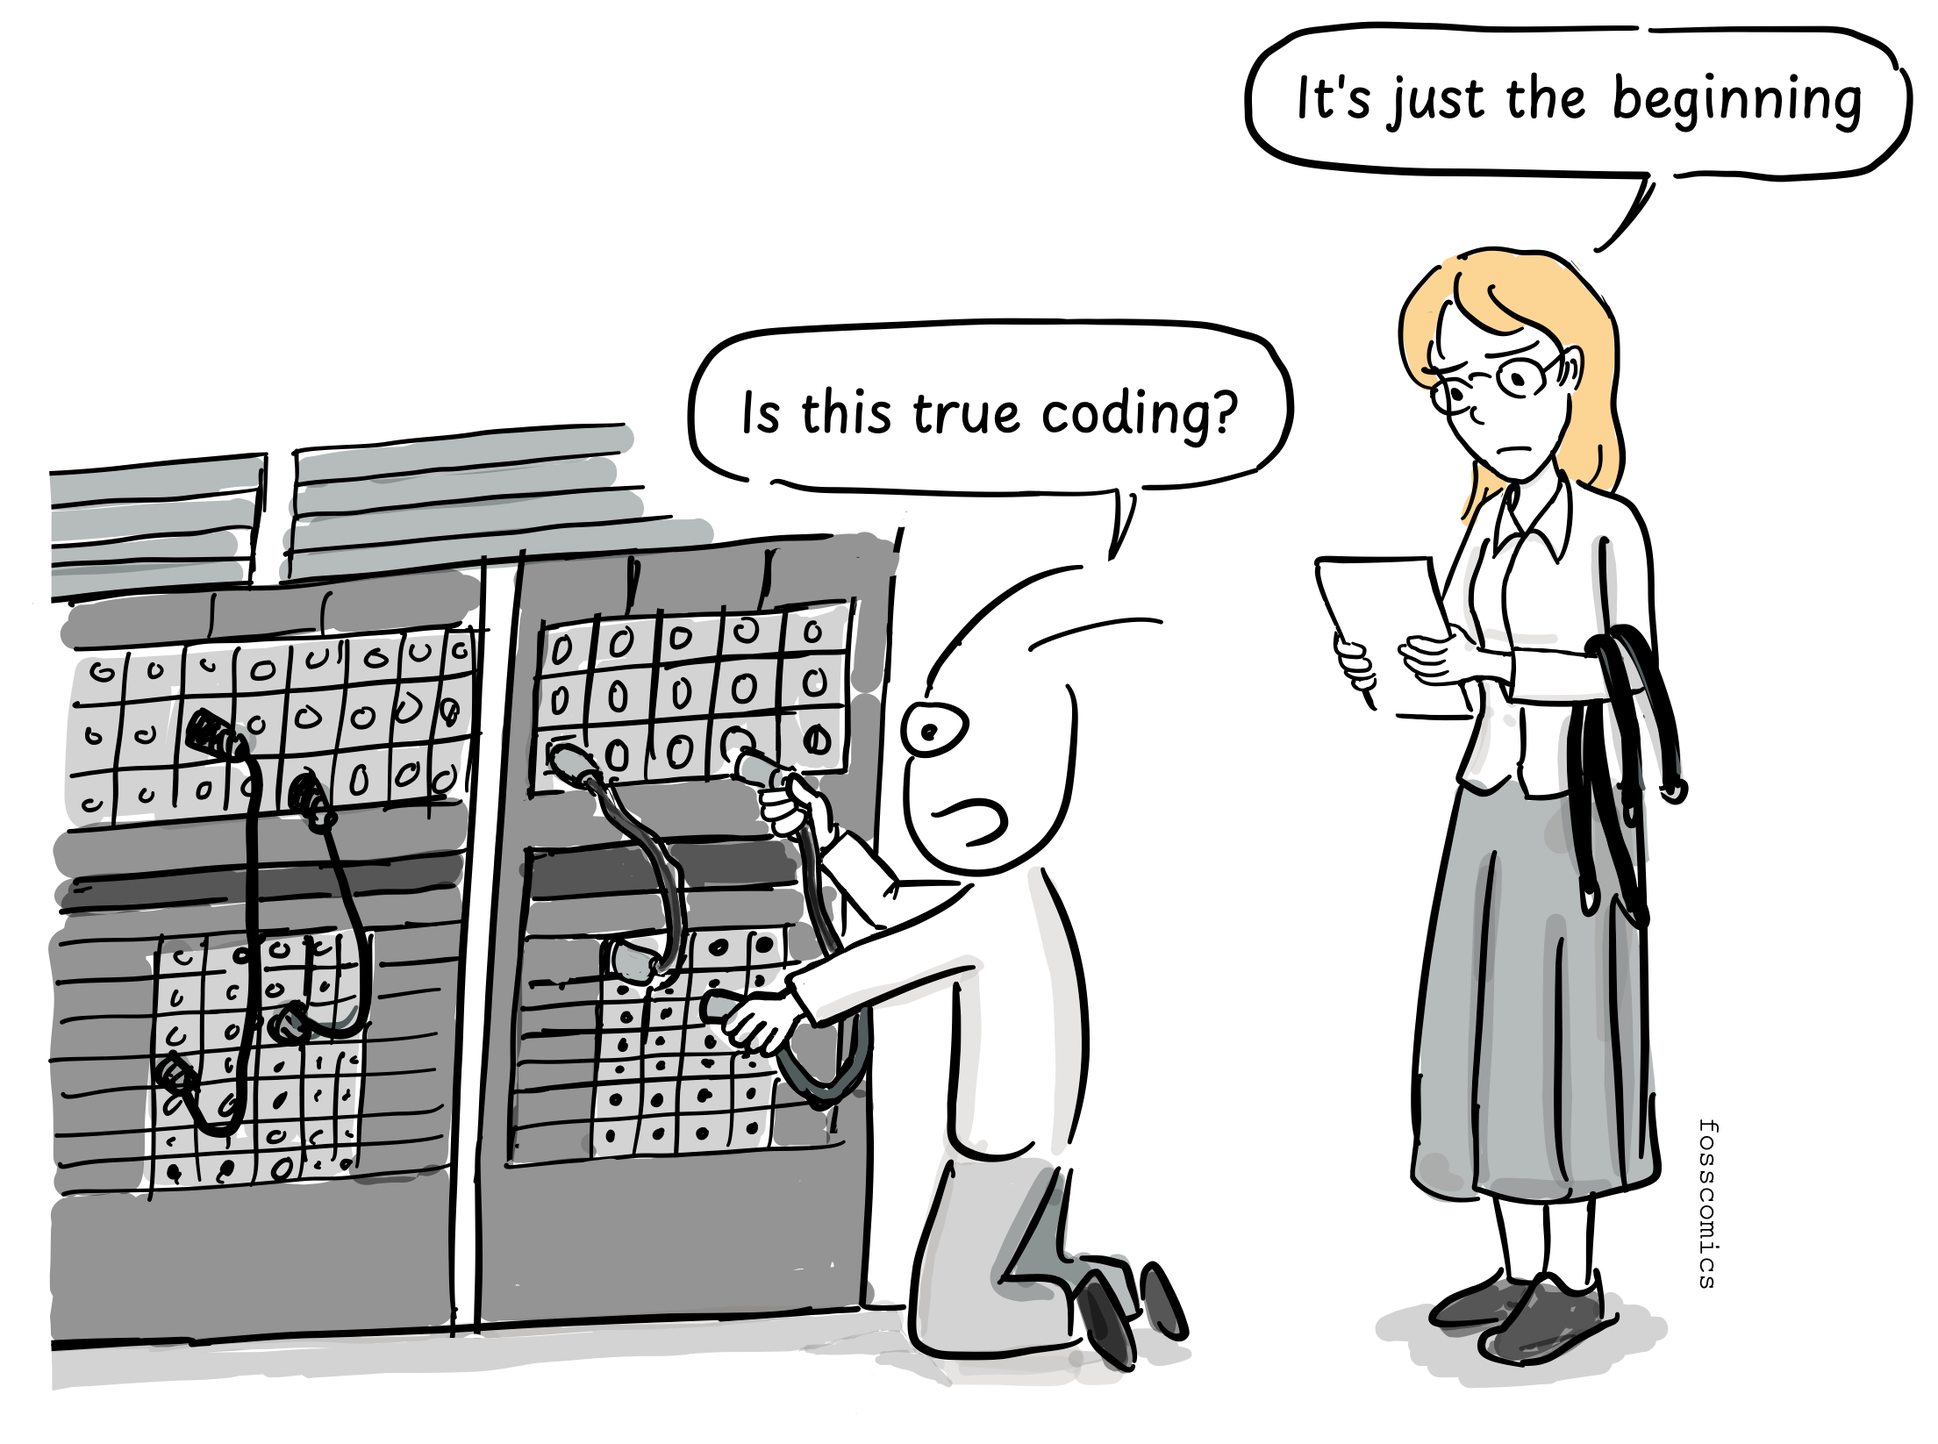
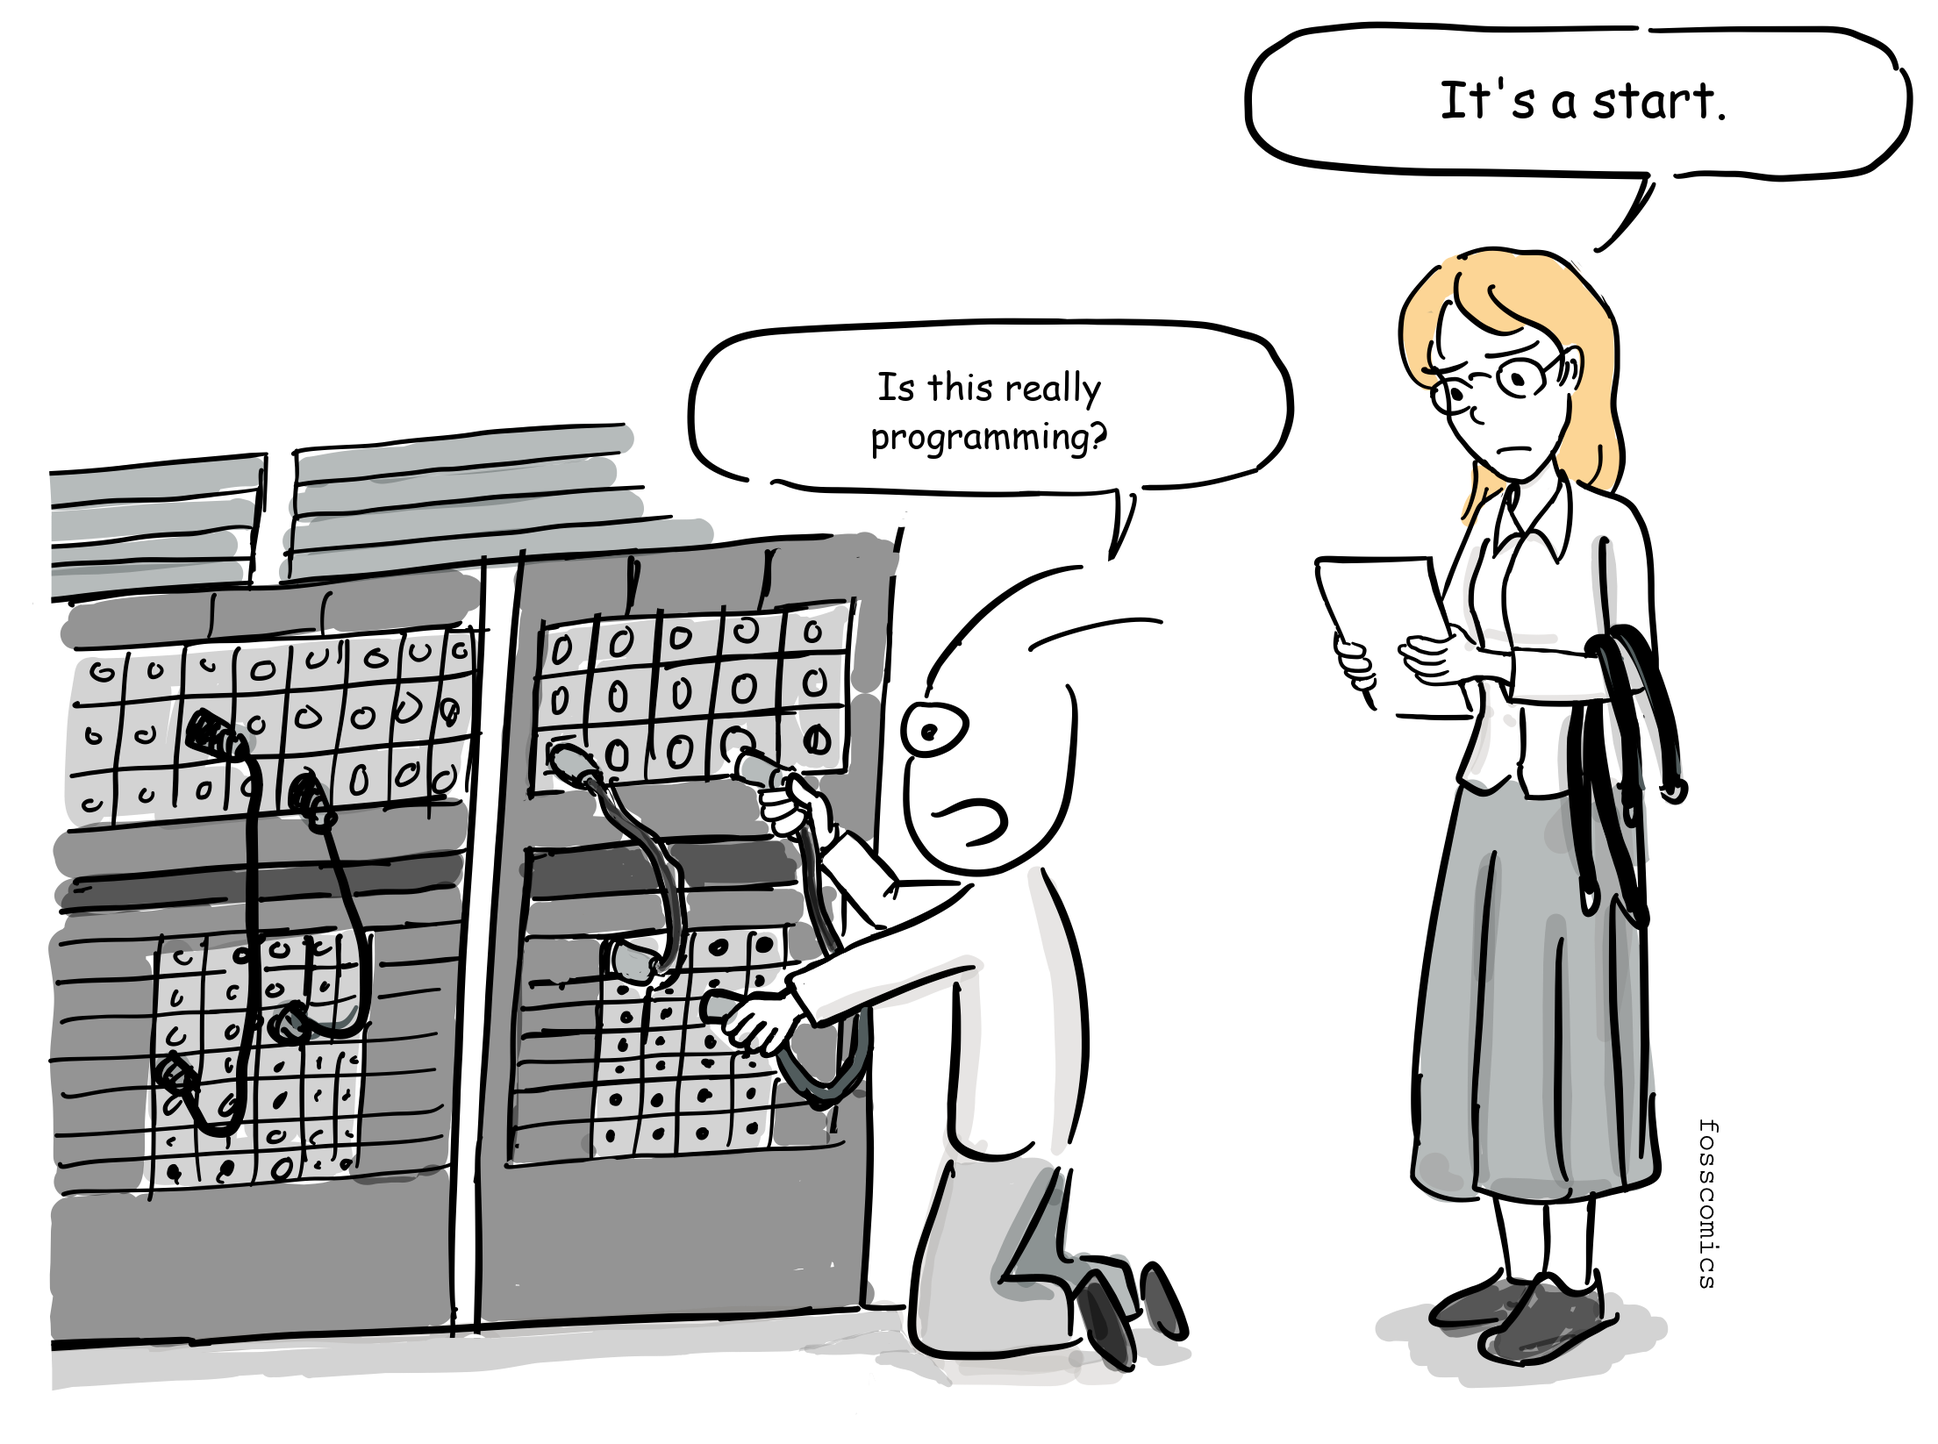
Revise Episode 2 translation and artwork

Changed region(s): [[0.3748, 0.2479, 0.6247, 0.3098], [0.656, 0.062, 0.9683, 0.093]]

diff --git a/content/posts/2. Alan Turing and Von Neumann/index.md b/content/posts/2. Alan Turing and Von Neumann/index.md
@@ -2,80 +2,83 @@
 title: 2. Alan Turing and Von Neumann
 date: "2019-05-29"
 image: feature.png
-description: After World War II, countries sought to develop computers. Alan Turing first proposed a theoretical computer model, influencing the design of modern computing. He aimed to prove Gödel's incompleteness theorems by designing a theoretical machine, leading to the Turing machine concept. Concurrently, the U.S. developed ENIAC, a general-purpose computer, evolving into the EDVAC with Von Neumann's input, establishing the foundation for modern computer architecture...
-tags: Alan Turing, Von Neumann, Kurt Göde, EDVAC, EDSAC, Automatic Computing Engine
+description: Alan Turing described an abstract machine that clarified what computation could mean. From wartime codebreaking and ENIAC's plugboards to the stored-program designs of EDVAC, ACE, and EDSAC, this episode traces how Turing, John von Neumann, and several engineering teams contributed to the architecture of modern computers.
+tags: Alan Turing, Von Neumann, Kurt Gödel, EDVAC, EDSAC, Automatic Computing Engine
 ---
 
-Who initially made the type of computer we use today? After the Second World War,  many countries tried to develop a computer, but Alan Turing, an English mathematician, was the first to propose a theoretical model of the computer.
+During and after World War II, teams in several countries worked to develop electronic computers. Years earlier, British mathematician Alan Turing had described a universal mathematical model in which one machine could carry out any computable procedure by reading an encoded description from its tape. This was an important theoretical precursor to the stored-program computer, although the architecture of practical stored-program machines was later developed through the work of several teams.
 
 ![alt_text](images/2_1.png "size:80%")
 > "I will find a way to prove Gödel's incompleteness theorems."
 
-At the time, a famous mathematician, [David Hilbert](https://en.wikipedia.org/wiki/David_Hilbert), introduced [a problem](https://en.wikipedia.org/wiki/Hilbert%27s_second_problem), which is about whether we could find an algorithm (machine) that could solve all the mathematical problems. [Gödel's incompleteness theorems](https://en.wikipedia.org/wiki/G%C3%B6del%27s_incompleteness_theorems), proposed by the Austro-Hungarian mathematician, logician and philosopher Kurt Gödel, are widely interpreted as showing that Hilbert's program to find a complete and consistent set of axioms for all mathematics is impossible [5]. Turing wanted to prove if Gödel's incompleteness theorems were right using his own way by designing a machine. Finally, in 1937, he published a paper, ["On Computable Numbers, with an Application](https://www.cs.virginia.edu/~robins/Turing_Paper_1936.pdf) that mentioned the [Turing machine](https://en.wikipedia.org/wiki/Turing_machine). It was an abstract machine that processed the symbols written on a strip of tape as the rules of the symbols defined in the table, which defines the mathematical model of the computer[&#91;1&#93;][1]. The symbols written in the tape could be thought of as software.
+In 1928, [David Hilbert](https://en.wikipedia.org/wiki/David_Hilbert) and Wilhelm Ackermann posed the Entscheidungsproblem: could an algorithm determine whether any statement in first-order logic is valid? [Gödel's incompleteness theorems](https://en.wikipedia.org/wiki/G%C3%B6del%27s_incompleteness_theorems), published in 1931, had already revealed limits in formal systems capable of expressing arithmetic. Turing approached the separate decision problem by defining a precise mathematical model of computation.
+
+Turing submitted ["On Computable Numbers, with an Application to the Entscheidungsproblem"](https://www.cs.virginia.edu/~robins/Turing_Paper_1936.pdf) in 1936, and it was published in 1937. In it, he described an abstract machine that reads and writes symbols on a long tape according to a finite table of rules. This [Turing machine](https://en.wikipedia.org/wiki/Turing_machine) provided a mathematical model of computation and showed that no universal procedure could solve the Entscheidungsproblem[&#91;1&#93;][1]. The symbols on its tape could encode both the data being processed and the instructions for processing it, anticipating the relationship between data and software in modern computers.
 
 ![alt_text](images/2_2.png "size:80%")
-> "Wow, rewriting this document by hand is like copying the program."
+> "Copying these symbols by hand is like copying the program."
 
-Alan Turing contributed to the Allied victory by creating a device called Bombe designed for breaking German ciphers during the Second World War[&lbrack;2&rbrack;][2]. At the time, computers were made for specific purposes. By the end of the war, the United States began making a general purpose computer, called [ENIAC(ENIAC).](https://ko.wikipedia.org/wiki/%EC%97%90%EB%8B%88%EC%95%85) John Mauchly and his team began to develop ENIAC in 1943 and completed it in 1946 at the University of Pennsylvania. After that, the US military used ENIAC to calculate ballistics tables for missiles.
+During World War II, Turing helped design an improved British Bombe that was used to decipher messages encrypted by the German Enigma machine, making an important contribution to Allied cryptanalysis[&lbrack;2&rbrack;][2]. Many computing machines built during the war were designed for specific tasks. As the war was nearing its end, however, the United States was developing [ENIAC](https://en.wikipedia.org/wiki/ENIAC), a general-purpose electronic computer. J. Presper Eckert, John Mauchly, and their team at the University of Pennsylvania began building it in 1943 and completed it in 1946. The U.S. Army initially used ENIAC to calculate artillery firing tables.
 
-In 1940s, the programming was totally different from today’s programming. We needed to connect each switch to set an instruction and also had to replace the circuit board in order to run another program. In addition, it was too heavy (30 tons) and consumed too much energy: 200 KW of electricity because it used 18,000 vacuum tubes[&lbrack;3&rbrack;][3].
+Programming ENIAC was very different from programming a modern computer. Instead of loading a program from memory, operators configured switches and connected cables on its plugboards. Running a different program required them to reconfigure the machine. ENIAC weighed about 30 tons, contained roughly 18,000 vacuum tubes, and consumed around 150 kilowatts of power[&lbrack;3&rbrack;][3].
 
 ![alt_text](images/2_3.png)
-> "Is this true coding?" \
-> "It's just the beginning"
+> "Is this really programming?" \
+> "It's a start."
 
-Later, the team who made ENIAC began to develop EDVAC, the world's first stored-program computer, which was delivered to the US Ballistic Research Laboratory in 1949. Von Neumann was involved in the development of EDVAC as a consultant and wrote the [first draft of a report on EDVAC](http://www.virtualtravelog.net/wp/wp-content/media/2003-08-TheFirstDraft.pdf). He proposed a [computer architecture](https://en.wikipedia.org/wiki/Computer_architecture) that was designed to save a program and its data in the same memory.
+The ENIAC team next began designing EDVAC for the U.S. Army's Ballistic Research Laboratory, making it one of the earliest stored-program computer projects. John von Neumann joined the project as a consultant, and the widely circulated [First Draft of a Report on the EDVAC](http://www.virtualtravelog.net/wp/wp-content/media/2003-08-TheFirstDraft.pdf) appeared under his name. The design stored instructions and data in the same memory. EDVAC was delivered in 1949 but became fully operational later; meanwhile, the Manchester Baby had run a stored program in 1948.
 
 ![alt_text](images/2_4.png "size:90%")
-> "EDVAC adopted the binary symbol for the first time."
+> "Unlike ENIAC, EDVAC was designed to use binary arithmetic."
 
-Now, all computers are using the computer architecture he proposed. We call it [Von Neumann](https://ko.wikipedia.org/wiki/%ED%8F%B0_%EB%85%B8%EC%9D%B4%EB%A7%8C_%EA%B5%AC%EC%A1%B0) architecture.
+Most general-purpose computers still use variants of what became known as the [von Neumann architecture](https://en.wikipedia.org/wiki/Von_Neumann_architecture).
 
 
 ![Von Neumann Architecture](images/image5.png "Von Neumann Architecture")
 (From [wikipedia](https://en.wikipedia.org/wiki/Von_Neumann_architecture#/media/File:Von_Neumann_Architecture.svg))
 
-As you can see in the picture above, Von Neumann architecture consists of a CPU (Central Processing Unit), a memory unit, and input and output devices. The processing unit contains an arithmetic logic unit and processor registers. The control unit contains an instruction register and program counter. The memory unit may store data and instructions together. In general, the control unit executes an instruction by fetching it from memory, using its ALU(Arithmetic Logic Unit) to perform an operation, and then storing the result in its memory[&lbrack;6&rbrack;][6].
+As the diagram shows, a basic von Neumann architecture consists of a central processing unit (CPU), memory, and input/output devices. The CPU contains an arithmetic logic unit (ALU), which performs arithmetic and logical operations; processor registers, which hold values needed immediately; and a control unit. The control unit includes registers such as the instruction register and program counter. Memory stores both instructions and data. During the fetch-decode-execute cycle, the CPU retrieves an instruction, interprets it, performs the operation, and stores any result[&lbrack;6&rbrack;][6].
 
-British government officials eventually found out about the EDVAC computer made in the United States and the report written by Von Neumann.
+Britain's National Physical Laboratory obtained von Neumann's EDVAC report in 1945.
 
 ![Von Neumann’s design report](images/2_5.png "size:90%")
-> "The US already made a [stored-program computer](https://en.wikipedia.org/wiki/Stored-program_computer)!"
+> "The Americans have already drawn up plans for a stored-program computer!"
 
-They asked Alan Turing to make a stored-program computer like EDVAC. Finally, he had the opportunity to develop a stored-program computer using his ideas from designing the Turing machine starting in 1945 at the National Physical Laboratory. The name was [ACE (Automatic Computing Engine)](https://en.wikipedia.org/wiki/Automatic_Computing_Engine).
+The laboratory then asked Turing to design a stored-program computer along the lines of EDVAC. Beginning in 1945, Turing worked on the [Automatic Computing Engine (ACE)](https://en.wikipedia.org/wiki/Automatic_Computing_Engine), giving him an opportunity to turn ideas from his theoretical work into a practical computer design.
 
 
 ![alt_text](images/2_6.png "size:80%")
-> "We need a computer like EDVAC" \
-> "I also have a good idea"
+> "We need a computer like EDVAC." \
+> "I have a design of my own."
 
-When we look at [his paper,](https://www.amazon.com/Turings-Report-1946-Other-Papers/dp/0262031140) published in 1946, although the report was written later than the EDVAC report by Von Neumann, it also included a detailed design for the stored-program computer. Moreover, the hardware is minimally designed to run arithmetic instructions in software, which is the same design philosophy and approach of the RISC CPU today. However, the development of ACE was delayed due to his wartime work and the secrecy required, and he returned to Cambridge for a sabbatical year in 1947 without having finished working on ACE[&lbrack;4&rbrack;][4].
+Although Turing's [ACE report](https://www.amazon.com/Turings-Report-1946-Other-Papers/dp/0262031140), presented in 1946, came after von Neumann's EDVAC report, it contained a detailed design for a stored-program computer. Turing kept the hardware to a minimum and proposed implementing even some arithmetic operations in software. In this respect, ACE anticipated ideas later associated with reduced instruction set computer (RISC) processors. Delays in funding and construction frustrated Turing, and in 1947 he returned to Cambridge on leave before the full ACE could be built[&lbrack;4&rbrack;][4].
 
 
 ![alt_text](images/2_7.png "size:80%")
-> "I already have a design. Why haven't they made a decision yet?"
+> "The design is ready. Why haven't they approved the funding?"
 
-Eventually, the mathematics institute at the University of Cambridge developed a computer called [Electronic Delay Storage Automatic Calculator (EDSAC)](https://ko.wikipedia.org/wiki/%EC%97%90%EB%93%9C%EC%82%AD) in 1949 with the proven design of the von Neumann computer.
+Elsewhere in Britain, Cambridge University's Mathematical Laboratory completed the [Electronic Delay Storage Automatic Calculator (EDSAC)](https://en.wikipedia.org/wiki/EDSAC) in 1949, drawing on the stored-program design described in the EDVAC report.
+Meanwhile, Turing's ACE design continued to influence work at NPL, which built a smaller version called the [Pilot ACE](https://en.wikipedia.org/wiki/Pilot_ACE). It ran its first program in 1950.
 
 ![alt_text](images/2_8.png "EDSAC size:80%")
 
-Alan Turing was ahead of the idea and design of the stored-program computer, but the actual implementation was led by the United States. In fact, since Alan Turing spent a few years working on his Ph.D. at the Institute for Advanced Study in Princeton University in 1937, while von Neumann was a professor of mathematics there, von Neumann might have gotten ideas from Alan Turing. However, von Neumann did not mention it in his report.
+Alan Turing's 1936 concept of a universal machine was an important theoretical precursor to the stored-program computer. In the United States, John von Neumann, J. Presper Eckert, John Mauchly, and others subsequently contributed to the development of the stored-program architecture through the EDVAC project, while British teams pursued their own implementations. Interestingly, Turing studied for his Ph.D. at Princeton University from 1936 to 1938, while von Neumann was a professor at the nearby Institute for Advanced Study. The two knew one another, and von Neumann, who was familiar with Turing's work on computability, later offered Turing a position. Some historians have therefore suggested that Turing's ideas may have influenced von Neumann's thinking. However, the extent of that influence is uncertain, and von Neumann's 1945 EDVAC report did not cite Turing's 1936 paper.
 
 ![alt_text](images/2_9.png "size:80%")
-> "Alan, can you explain your Turing machine a bit more?" \
-> "Yes, sir."
+> "Alan, could you tell me more about your universal machine?" \
+> "Of course."
 
-They might have talked to each other like this.
+They may have had a conversation like this, though no record of it survives.
 
-In fact, Britain made the first computer, Colossus, in order to break German ciphers during World War II, but the machines and related information were destroyed after the war as part of the effort to maintain the secrecy of the project. Germany also built their own computers during World War II, but their research could not continue due to their defeat.
+During World War II, Britain, Germany, and the United States all developed pioneering computing machines, but the war shaped what happened to them afterward. In Britain, Colossus was built in secret to help break German ciphers. Most Colossus machines were dismantled after the war, and the project remained secret for decades. Germany also produced pioneering computers, including Konrad Zuse's machines, but wartime destruction and Germany's defeat disrupted further development.
 
 ![alt_text](images/2_10.png)
-> "We can use the machine for other purposes" \
-> "No, we can’t. They would be destroyed because of confidentiality"
+> "Could we use these machines for other purposes?" \
+> "No. The project must remain secret."
 
-In the United States, immigrants such as Von Neumann contributed greatly to the development of early computers and continued to develop commercial computers. Finally, the computer era began with their efforts.
+In the United States, immigrants including von Neumann made major contributions alongside engineers, mathematicians, programmers, universities, companies, and government laboratories. Strong government support and a growing commercial market then helped the United States develop the world's largest early computer industry.
 
-![Von Neumann, a Hungarian immigrant, worked on the design of the stored-program computer. Alan Turing obtained a Ph.D. from Princeton university and proposed a theoretical model of the computer. Kurt Gödel was an Austro-Hungarian-born Austrian, and later American. His research on the incompleteness theorems led to the birth of the Turing machine.](images/2_11.png)
+![John von Neumann, a Hungarian immigrant, worked on the design of the stored-program computer. Alan Turing earned a Ph.D. from Princeton University and developed a mathematical model of computation. Kurt Gödel was born in Austria-Hungary and later became a U.S. citizen. His incompleteness theorems helped set the stage for the development of the Turing machine.](images/2_11.png)
 
 
 ## References
